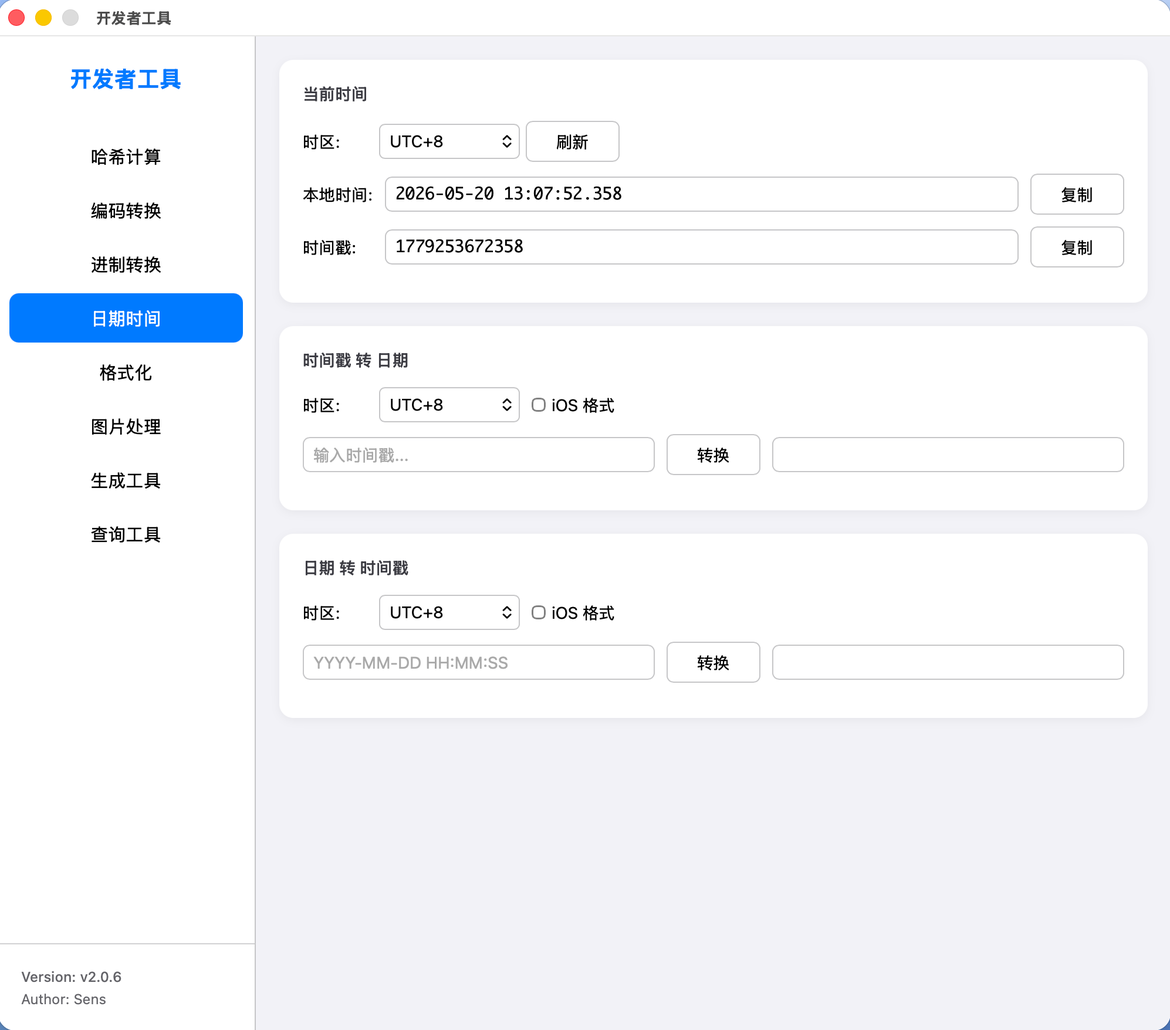
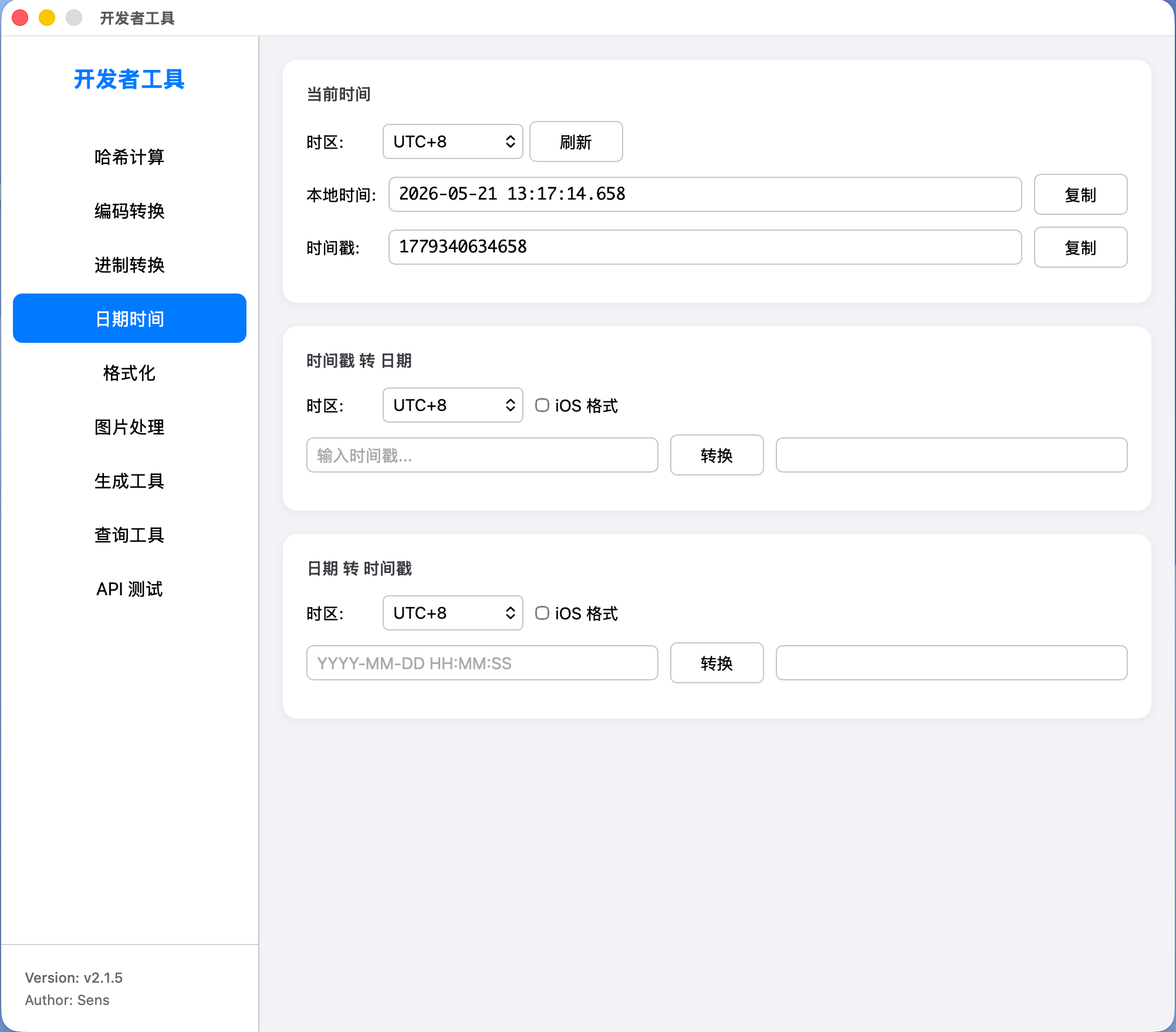
update

diff --git a/web/index.html b/web/index.html
@@ -38,7 +38,7 @@
                         <button class="sub-nav-item" data-sub="hash-file">文件模式</button>
                     </div>
                     <div id="hash-text" class="sub-tab-content active">
-                        <textarea autocomplete="off" autocorrect="off" autocapitalize="off" spellcheck="false" id="hash-input" placeholder="输入待计算文本..."></textarea>
+                        <textarea autocomplete="off" autocorrect="off" autocapitalize="off" spellcheck="false" id="hash-input" aria-label="待计算文本" placeholder="输入待计算文本..."></textarea>
                     </div>
                     <div id="hash-file" class="sub-tab-content">
                         <div class="input-group">
@@ -84,7 +84,7 @@
                             <button onclick="calcHash('ripemd160', true)">HmacRIPEMD160</button>
                         </div>
                         <div class="input-group" style="margin-top: 15px;">
-                            <label>密钥 (KEY):</label>
+                            <label for="hash-key">密钥 (KEY):</label>
                             <input type="text" autocomplete="off" autocorrect="off" autocapitalize="off" spellcheck="false" id="hash-key" placeholder="输入密钥...">
                         </div>
                     </div>
@@ -92,7 +92,7 @@
 
                 <div class="card">
                     <div class="card-header">结果</div>
-                    <textarea autocomplete="off" autocorrect="off" autocapitalize="off" spellcheck="false" id="hash-output" readonly class="mono"></textarea>
+                    <textarea autocomplete="off" autocorrect="off" autocapitalize="off" spellcheck="false" id="hash-output" aria-label="哈希结果" readonly class="mono"></textarea>
                     <div class="btn-group">
                         <button onclick="copyToClipboard('hash-output')">复制结果</button>
                         <button onclick="toggleCase('hash-output')">转换大小写</button>
@@ -105,7 +105,7 @@
             <section id="encode" class="tab-content">
                 <div class="card">
                     <div class="card-header">输入</div>
-                    <textarea autocomplete="off" autocorrect="off" autocapitalize="off" spellcheck="false" id="encode-input"></textarea>
+                    <textarea autocomplete="off" autocorrect="off" autocapitalize="off" spellcheck="false" id="encode-input" aria-label="待编码文本"></textarea>
                 </div>
                 <div class="card">
                     <div class="card-header">操作</div>
@@ -139,7 +139,7 @@
                 </div>
                 <div class="card">
                     <div class="card-header">结果</div>
-                    <textarea autocomplete="off" autocorrect="off" autocapitalize="off" spellcheck="false" id="encode-output" readonly class="mono"></textarea>
+                    <textarea autocomplete="off" autocorrect="off" autocapitalize="off" spellcheck="false" id="encode-output" aria-label="编码结果" readonly class="mono"></textarea>
                     <div class="btn-group">
                         <button onclick="copyToClipboard('encode-output')">复制结果</button>
                         <button onclick="clearEncode()">清理全部</button>
@@ -152,7 +152,7 @@
                 <div class="card">
                     <div class="card-header">进制转换</div>
                     <div class="input-group">
-                        <label>输入数值:</label>
+                        <label for="base-input">输入数值:</label>
                         <input type="text" id="base-input" placeholder="输入待转换数值..." style="flex: 1; margin-bottom: 0;">
                     </div>
                     <div class="input-row" style="margin-top: 15px; align-items: flex-start;">
@@ -186,6 +186,7 @@
                             <button onclick="copyToClipboard('base-output')">复制结果</button>
                             <button onclick="clearBase()">清空全部</button>
                         </div>
+                    </div>
                 </div>
             </section>
 
@@ -194,17 +195,17 @@
                 <div class="card">
                     <div class="card-header">当前时间</div>
                     <div class="input-group compact">
-                        <label>时区:</label>
+                        <label for="time-tz-select">时区:</label>
                         <select id="time-tz-select"></select>
                         <button onclick="updateClock()">刷新</button>
                     </div>
                     <div class="input-group">
-                        <label>本地时间:</label>
+                        <label for="time-now-date">本地时间:</label>
                         <input type="text" autocomplete="off" autocorrect="off" autocapitalize="off" spellcheck="false" id="time-now-date" readonly class="mono">
                         <button onclick="copyValue('time-now-date')">复制</button>
                     </div>
                     <div class="input-group">
-                        <label>时间戳:</label>
+                        <label for="time-now-ts">时间戳:</label>
                         <input type="text" autocomplete="off" autocorrect="off" autocapitalize="off" spellcheck="false" id="time-now-ts" readonly class="mono">
                         <button onclick="copyValue('time-now-ts')">复制</button>
                     </div>
@@ -212,7 +213,7 @@
                 <div class="card">
                     <div class="card-header">时间戳 转 日期</div>
                     <div class="input-group compact">
-                        <label>时区:</label>
+                        <label for="t2d-tz-select">时区:</label>
                         <select id="t2d-tz-select"></select>
                         <label class="checkbox-label"><input type="checkbox" id="t2d-ios"> iOS 格式</label>
                     </div>
@@ -225,7 +226,7 @@
                 <div class="card">
                     <div class="card-header">日期 转 时间戳</div>
                     <div class="input-group compact">
-                        <label>时区:</label>
+                        <label for="d2t-tz-select">时区:</label>
                         <select id="d2t-tz-select"></select>
                         <label class="checkbox-label"><input type="checkbox" id="d2t-ios"> iOS 格式</label>
                     </div>
@@ -246,7 +247,7 @@
                         <button class="sub-nav-item" data-sub="format-file">文件模式</button>
                     </div>
                     <div id="format-text" class="sub-tab-content active">
-                        <textarea autocomplete="off" autocorrect="off" autocapitalize="off" spellcheck="false" id="format-input" placeholder="输入待格式化文本..."></textarea>
+                        <textarea autocomplete="off" autocorrect="off" autocapitalize="off" spellcheck="false" id="format-input" aria-label="待格式化文本" placeholder="输入待格式化文本..."></textarea>
                     </div>
                     <div id="format-file" class="sub-tab-content">
                         <div class="input-group">
@@ -270,7 +271,7 @@
                 </div>
                 <div class="card">
                     <div class="card-header">结果</div>
-                    <textarea autocomplete="off" autocorrect="off" autocapitalize="off" spellcheck="false" id="format-output" readonly class="mono"></textarea>
+                    <textarea autocomplete="off" autocorrect="off" autocapitalize="off" spellcheck="false" id="format-output" aria-label="格式化结果" readonly class="mono"></textarea>
                     <div class="btn-group">
                         <button onclick="copyToClipboard('format-output')">复制结果</button>
                         <button onclick="clearFormat()">清理全部</button>
@@ -294,12 +295,12 @@
                     <!-- Convert -->
                     <div id="img-conv" class="sub-tab-content active">
                         <div class="input-group">
-                            <label>源图片:</label>
+                            <label for="img-conv-src">源图片:</label>
                             <input type="text" id="img-conv-src" readonly>
                             <button onclick="selectFile('img-conv-src')">浏览</button>
                         </div>
                         <div class="input-group">
-                            <label>目标格式:</label>
+                            <label for="img-conv-fmt">目标格式:</label>
                             <select id="img-conv-fmt">
                                 <option>PNG</option><option>JPEG</option><option>WEBP</option>
                                 <option>BMP</option><option>ICO</option><option>TIFF</option>
@@ -312,12 +313,12 @@
                     <!-- Compress -->
                     <div id="img-comp" class="sub-tab-content">
                         <div class="input-group">
-                            <label>源图片:</label>
+                            <label for="img-comp-src">源图片:</label>
                             <input type="text" id="img-comp-src" readonly>
                             <button onclick="selectFile('img-comp-src')">浏览</button>
                         </div>
                         <div class="input-group">
-                            <label>质量 (1-100):</label>
+                            <label for="img-comp-quality">质量 (1-100):</label>
                             <input type="range" id="img-comp-quality" min="1" max="100" value="75">
                             <span id="quality-val">75</span>
                         </div>
@@ -327,12 +328,12 @@
                     <!-- Size -->
                     <div id="img-size" class="sub-tab-content">
                         <div class="input-group">
-                            <label>源图片:</label>
+                            <label for="img-size-src">源图片:</label>
                             <input type="text" id="img-size-src" readonly>
                             <button onclick="selectFile('img-size-src')">浏览</button>
                         </div>
                         <div class="input-group">
-                            <label>调整方式:</label>
+                            <label for="img-size-mode">调整方式:</label>
                             <select id="img-size-mode">
                                 <option value="resize">缩放</option>
                                 <option value="center">中心裁剪</option>
@@ -341,8 +342,9 @@
                             </select>
                         </div>
                         <div class="input-row">
-                            <label>目标尺寸:</label><label>宽:</label><input type="number" id="img-width" min="1">
-                            <label>高:</label><input type="number" id="img-height" min="1">
+                            <label for="img-width">目标尺寸:</label><label for="img-width">宽:</label>
+<input type="number" id="img-width" min="1">
+                            <label for="img-height">高:</label><input type="number" id="img-height" min="1">
                             <label class="checkbox-label"><input type="checkbox" id="img-ratio" checked> 保持比例</label>
                         </div>
                         <button class="primary" onclick="imgSize()">保存</button>
@@ -351,21 +353,21 @@
                     <!-- Radius -->
                     <div id="img-radius" class="sub-tab-content">
                         <div class="input-group">
-                            <label>源图片:</label>
+                            <label for="img-radius-src">源图片:</label>
                             <input type="text" id="img-radius-src" readonly>
                             <button onclick="selectFile('img-radius-src')">浏览</button>
                         </div>
                         <div class="card-sub-header">圆角设置:</div><div class="radius-settings">
                             <div class="input-row">
-                                <label class="checkbox-label"><input type="radio" name="rad-mode" id="rad-mode-unified" checked onchange="toggleRadiusMode()"> 统一设置:</label>
+                                <label for="rad-all" class="checkbox-label"><input type="radio" name="rad-mode" id="rad-mode-unified" checked onchange="toggleRadiusMode()"> 统一设置:</label>
                                 <input type="number" id="rad-all" value="0" min="0">
                             </div>
                             <div class="input-row">
                                 <label class="checkbox-label"><input type="radio" name="rad-mode" id="rad-mode-individual" onchange="toggleRadiusMode()"> 单独设置:</label>
-                                <label>左上:</label><input type="number" id="rad-tl" value="0" min="0" disabled>
-                                <label>右上:</label><input type="number" id="rad-tr" value="0" min="0" disabled>
-                                <label>左下:</label><input type="number" id="rad-bl" value="0" min="0" disabled>
-                                <label>右下:</label><input type="number" id="rad-br" value="0" min="0" disabled>
+                                <label for="rad-tl">左上:</label><input type="number" id="rad-tl" value="0" min="0" disabled>
+                                <label for="rad-tr">右上:</label><input type="number" id="rad-tr" value="0" min="0" disabled>
+                                <label for="rad-bl">左下:</label><input type="number" id="rad-bl" value="0" min="0" disabled>
+                                <label for="rad-br">右下:</label><input type="number" id="rad-br" value="0" min="0" disabled>
                             </div>
                         </div>
                         <button class="primary" onclick="imgRadius()">保存</button>
@@ -374,7 +376,7 @@
                     <!-- Color Picker -->
                                         <div id="img-color" class="sub-tab-content">
                         <div class="input-group">
-                            <label>源图片:</label>
+                            <label for="img-color-src">源图片:</label>
                             <input type="text" id="img-color-src" readonly placeholder="选择图片以提取颜色...">
                             <button onclick="selectColorPickerFile()">浏览</button>
                         </div>
@@ -392,16 +394,16 @@
                             </div>
                             <div id="color-result-container" style="display: none; margin-top: 15px;">
                                 <div class="input-row">
-                                    <label style="min-width: 85px; text-align: right; padding-right: 5px;">HEX(RGBA):</label><input type="text" id="color-hex-rgba" readonly style="flex: 1;">
+                                    <label for="color-hex-rgba" style="min-width: 85px; text-align: right; padding-right: 5px;">HEX(RGBA):</label><input type="text" id="color-hex-rgba" readonly style="flex: 1;">
                                     <button onclick="copyValue('color-hex-rgba')">复制</button>
-                                    <label style="min-width: 50px; margin-left: 10px; text-align: right; padding-right: 5px;">RGBA:</label><input type="text" id="color-rgba" readonly style="flex: 2.2;">
+                                    <label for="color-rgba" style="min-width: 50px; margin-left: 10px; text-align: right; padding-right: 5px;">RGBA:</label><input type="text" id="color-rgba" readonly style="flex: 2.2;">
                                     <button onclick="copyValue('color-rgba')">复制</button>
                                     <div style="width: 24px; margin-left: 10px;"></div>
                                 </div>
                                 <div class="input-row" style="margin-top: 10px;">
-                                    <label style="min-width: 85px; text-align: right; padding-right: 5px;">HEX(ARGB):</label><input type="text" id="color-hex-argb" readonly style="flex: 1;">
+                                    <label for="color-hex-argb" style="min-width: 85px; text-align: right; padding-right: 5px;">HEX(ARGB):</label><input type="text" id="color-hex-argb" readonly style="flex: 1;">
                                     <button onclick="copyValue('color-hex-argb')">复制</button>
-                                    <label style="min-width: 50px; margin-left: 10px; text-align: right; padding-right: 5px;">HSLA:</label><input type="text" id="color-hsla" readonly style="flex: 2.2;">
+                                    <label for="color-hsla" style="min-width: 50px; margin-left: 10px; text-align: right; padding-right: 5px;">HSLA:</label><input type="text" id="color-hsla" readonly style="flex: 2.2;">
                                     <button onclick="copyValue('color-hsla')">复制</button>
                                     <div id="color-preview" style="width: 24px; height: 24px; border-radius: 4px; border: 1px solid var(--border-color); margin-left: 10px; flex-shrink: 0;"></div>
                                 </div>
@@ -426,6 +428,7 @@
                             <button class="primary" onclick="base64ToImg()">还原</button>
                         </div>
                 </div>
+                </div>
             </section>
 
             
@@ -435,7 +438,7 @@
                 <div class="card">
                     <div class="card-header">批量生成 UUID</div>
                     <div class="input-group">
-                        <label>数量:</label><input type="number" id="uuid-count" value="5" class="small-num">
+                        <label for="uuid-count">数量:</label><input type="number" id="uuid-count" value="5" class="small-num">
                         <label class="checkbox-label"><input type="checkbox" id="uuid-hyphen" checked> 带分割线</label>
                         <label class="checkbox-label"><input type="checkbox" id="uuid-upper" checked> 字母大写</label>
                         <label class="checkbox-label"><input type="checkbox" id="uuid-braces"> 带花括号</label>
@@ -458,7 +461,7 @@
                         <div class="qr-split-container">
                             <div class="qr-left-panel">
                                 <div class="textarea-wrapper">
-                                    <textarea id="qr-input" placeholder="输入要生成的文本或链接..." maxlength="2000"></textarea>
+                                    <textarea id="qr-input" aria-label="二维码内容" placeholder="输入要生成的文本或链接..." maxlength="2000"></textarea>
                                     <div class="char-counter"><span id="qr-char-count">0</span> / 2000</div>
                                 </div>
                                 <button class="primary" style="width: 100%; margin-top: 10px;" onclick="generateQR()">生成二维码</button>
@@ -479,13 +482,13 @@
                     <!-- QR Recognition -->
                     <div id="qr-rec" class="sub-tab-content">
                         <div class="input-group">
-                            <label>选择图片:</label>
+                            <label for="qr-rec-src">选择图片:</label>
                             <input type="text" autocomplete="off" autocorrect="off" autocapitalize="off" spellcheck="false" id="qr-rec-src" readonly placeholder="选择二维码图片...">
                             <button onclick="selectFile('qr-rec-src')">浏览</button>
                             <button onclick="decodeQR()">识别</button>
                         </div>
                         <div class="card-sub-header">识别结果:</div>
-                        <textarea autocomplete="off" autocorrect="off" autocapitalize="off" spellcheck="false" id="qr-rec-output" readonly style="min-height: 100px;"></textarea>
+                        <textarea autocomplete="off" autocorrect="off" autocapitalize="off" spellcheck="false" id="qr-rec-output" aria-label="二维码识别结果" readonly style="min-height: 100px;"></textarea>
                         <button onclick="copyToClipboard('qr-rec-output')">复制结果</button>
                     </div>
                 </div>
@@ -688,7 +691,7 @@
                     
                     <div id="query-android" class="sub-tab-content">
                         <div class="input-row" style="margin-bottom: 10px;">
-                            <label style="margin-right: 5px;">搜索：</label>
+                            <label for="android-perm-search" style="margin-right: 5px;">搜索：</label>
                             <input type="text" id="android-perm-search" placeholder="输入关键字搜索权限或描述..." style="flex: 1; margin-right: 10px;">
                             <button id="android-fetch-btn" onclick="fetchPermissions('android')" style="margin-right: 10px;">获取权限</button>
                             <button onclick="openDoc('android')">官方文档</button>
@@ -723,18 +726,18 @@
                     <div id="api-req-tab" class="api-main-tab-content active" style="flex: 1; flex-direction: column;">
                         <div style="margin: 15px 0;">
                             <div class="input-row">
-                                <label style="min-width: 80px; text-align: right; padding-right: 10px;">请求 URL:</label>
-                                <input type="text" id="api-url" autocomplete="off" autocorrect="off" autocapitalize="off" spellcheck="false" placeholder="https://api.example.com" style="flex: 1;">
+                                <label for="api-url" style="min-width: 80px; text-align: right; padding-right: 10px;">请求 URL:</label>
+                                <input type="text" id="api-url" aria-label="请求URL" autocomplete="off" autocorrect="off" autocapitalize="off" spellcheck="false" placeholder="https://api.example.com" style="flex: 1;">
                             </div>
                             <div class="input-row" style="margin-top: 10px;">
-                                <label style="min-width: 80px; text-align: right; padding-right: 10px;">请求方法:</label>
+                                <label for="api-method" style="min-width: 80px; text-align: right; padding-right: 10px;">请求方法:</label>
                                 <select id="api-method" style="width: 100px;">
                                     <option>GET</option><option>POST</option><option>PUT</option>
                                     <option>DELETE</option><option>PATCH</option><option>HEAD</option>
                                 </select>
                             </div>
                             <div class="input-row" style="margin-top: 10px;">
-                                <label style="min-width: 80px; text-align: right; padding-right: 10px;">Content-Type:</label>
+                                <label for="api-content-type" style="min-width: 80px; text-align: right; padding-right: 10px;">Content-Type:</label>
                                 <select id="api-content-type" style="width: 300px;">
                                     <option value="application/x-www-form-urlencoded">application/x-www-form-urlencoded</option>
                                     <option value="multipart/form-data">multipart/form-data</option>
@@ -760,7 +763,7 @@
                         </div>
 
                         <div id="api-body" class="sub-tab-content" style="flex: 1; padding: 10px 0; min-height: 0;">
-                            <textarea id="api-body-content" class="scroll-area" autocomplete="off" autocorrect="off" autocapitalize="off" spellcheck="false" placeholder="输入请求体内容 (JSON, 文本等)..." style="width: 100%; font-family: monospace; resize: none; box-sizing: border-box;"></textarea>
+                            <textarea id="api-body-content" aria-label="请求体内容" class="scroll-area" autocomplete="off" autocorrect="off" autocapitalize="off" spellcheck="false" placeholder="输入请求体内容 (JSON, 文本等)..." style="width: 100%; font-family: monospace; resize: none; box-sizing: border-box;"></textarea>
                         </div>
 
                         <div style="padding-top: 15px; margin-top: auto;">
@@ -787,13 +790,13 @@
                                     <button onclick="formatApiResponse('json')">JSON 格式化</button>
                                     <button onclick="copyValue('api-res-body')">复制</button>
                                 </div>
-                                <textarea id="api-res-body" readonly class="mono" style="flex: 1; width: 100%; background-color: var(--bg-window); resize: none; box-sizing: border-box;"></textarea>
+                                <textarea id="api-res-body" aria-label="响应体内容" readonly class="mono" style="flex: 1; width: 100%; background-color: var(--bg-window); resize: none; box-sizing: border-box;"></textarea>
                             </div>
                             <div id="api-res-headers-tab" class="sub-tab-content" style="flex: 1; flex-direction: column; padding: 10px 0;">
-                                <textarea id="api-res-headers" readonly class="mono" style="flex: 1; width: 100%; background-color: var(--bg-window); resize: none; box-sizing: border-box;"></textarea>
+                                <textarea id="api-res-headers" aria-label="响应头内容" readonly class="mono" style="flex: 1; width: 100%; background-color: var(--bg-window); resize: none; box-sizing: border-box;"></textarea>
                             </div>
                             <div id="api-res-req-headers-tab" class="sub-tab-content" style="flex: 1; flex-direction: column; padding: 10px 0;">
-                                <textarea id="api-res-req-headers" readonly class="mono" style="flex: 1; width: 100%; background-color: var(--bg-window); resize: none; box-sizing: border-box;"></textarea>
+                                <textarea id="api-res-req-headers" aria-label="请求头内容" readonly class="mono" style="flex: 1; width: 100%; background-color: var(--bg-window); resize: none; box-sizing: border-box;"></textarea>
                             </div>
                         </div>
                         <div id="api-error-container" style="display: none; flex-direction: column; flex: 1; padding: 20px; color: #FF3B30;">

diff --git a/README.md b/README.md
@@ -9,6 +9,8 @@
 ![](screenshot/6.png)
 ![](screenshot/7.png)
 ![](screenshot/8.png)
+![](screenshot/9.png)
+![](screenshot/10.png)
 
 # windows 版本安装说明
 
